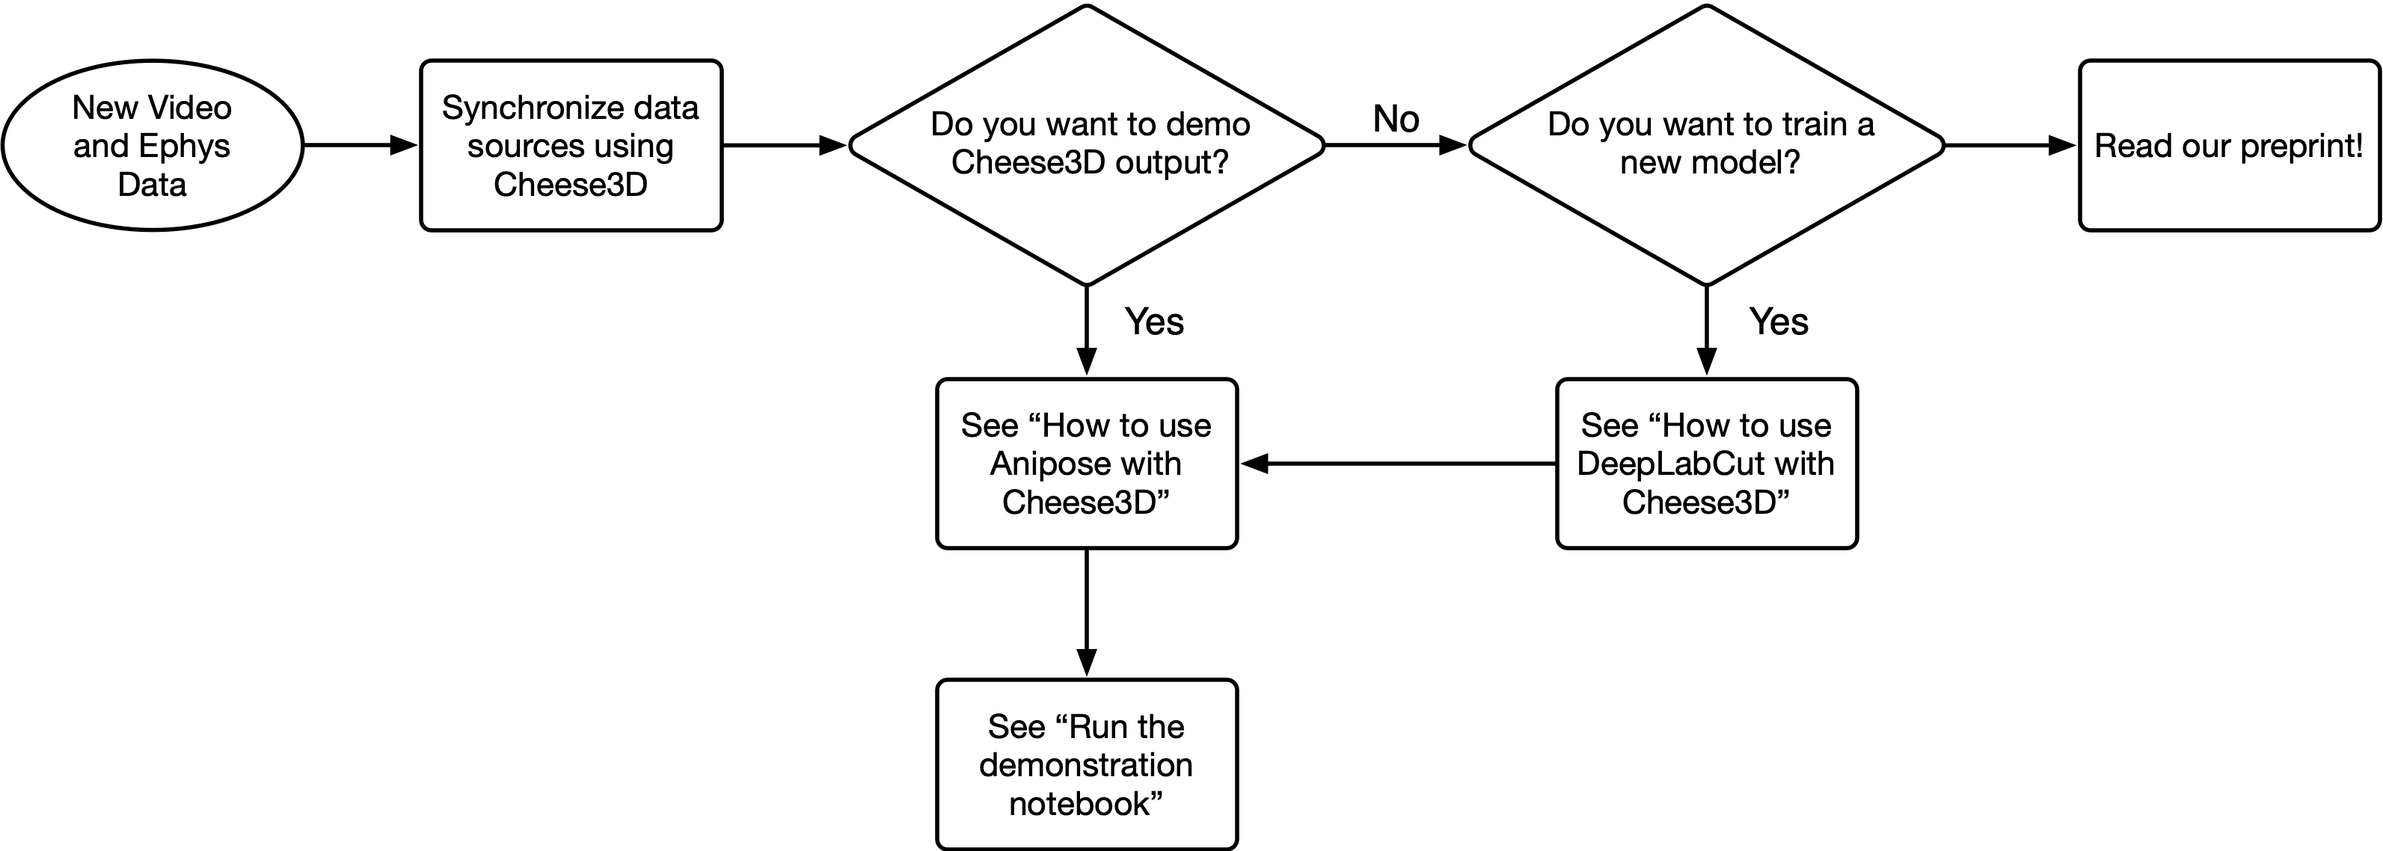
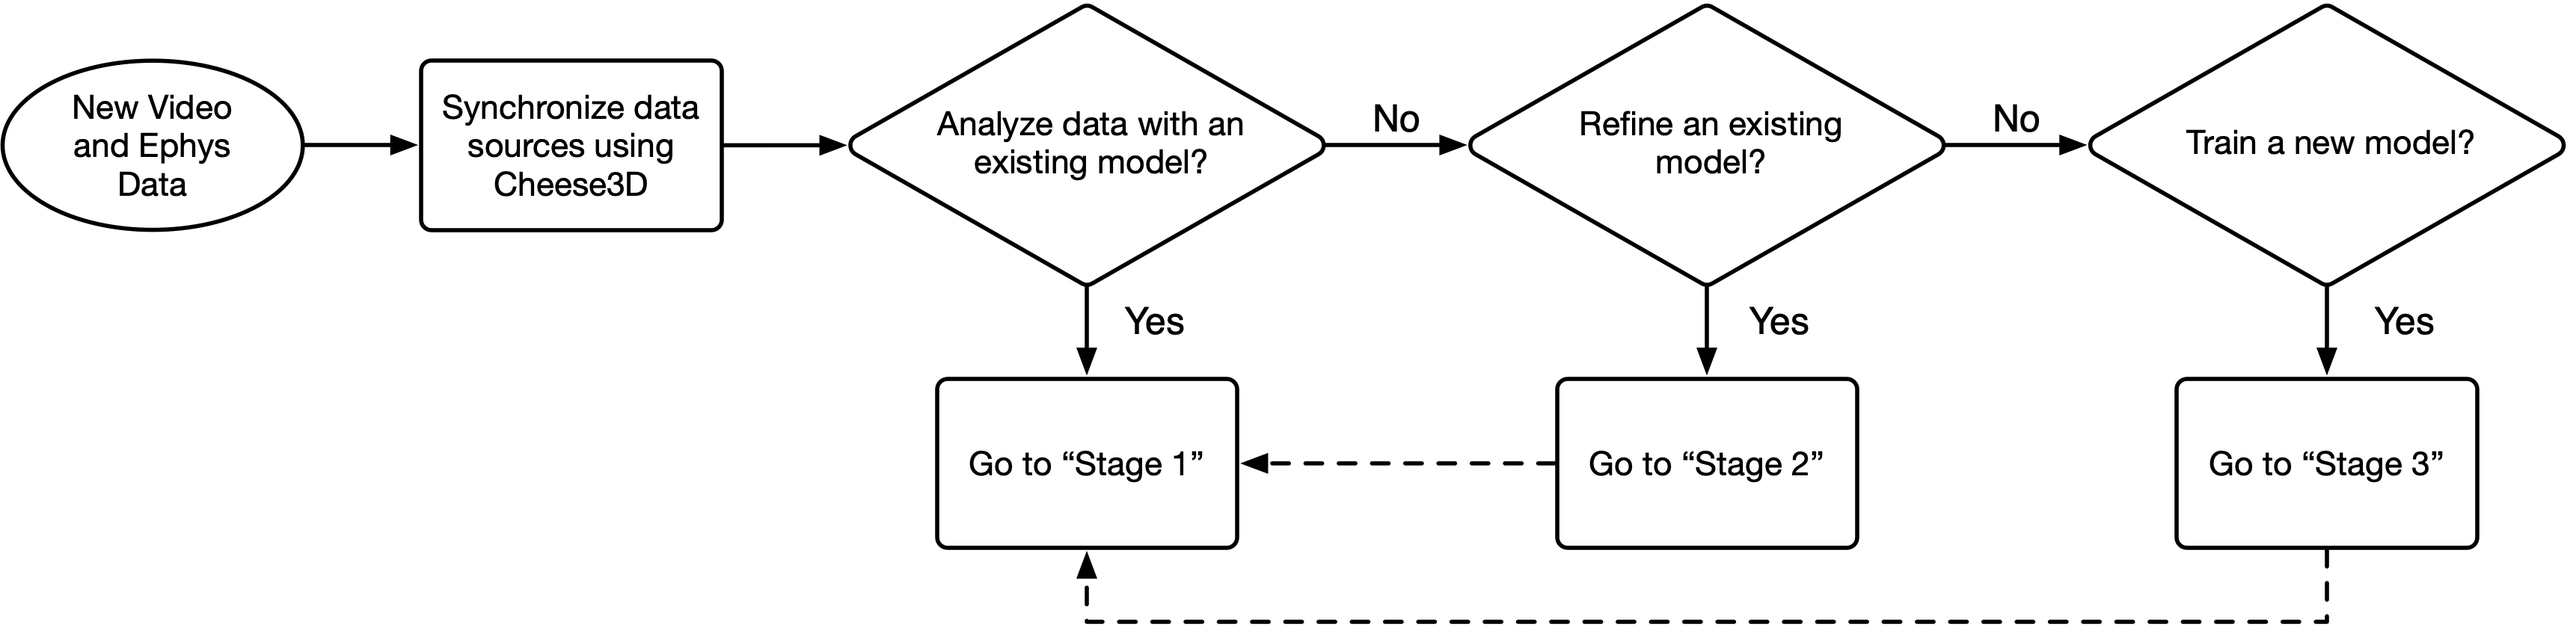
Update usage guide for DLC and Anipose

diff --git a/USAGE.md b/USAGE.md
@@ -1,0 +1,107 @@
+# Cheese3D Workflow Usage Guide
+
+This guide provides an overview of the Cheese3D workflow including analyzing new data and training new models. We provide example projects and datasets to walk through this tutorial.
+
+!!! note
+    Before starting, make sure you have installed Cheese3D as described in the [README](README.md).
+
+Download the example projects and datasets HERE. Unpack the downloaded archive using:
+```bash
+tar -xvzf cheese3d_examples.tar.gz
+```
+
+Use the flow chart below to guide you through the workflow.
+![](Cheese3DFlowchart.png)
+
+## Stage 1: Analyzing new videos
+
+Suppose you have new video data that you wish to analyze with Cheese3D. Start by placing the videos in `video-data` in their own subfolder. For this tutorial, we already provide a dataset called `20231031_B6-B20-B21-B26-B31-B32-B33_chew_rig2` as an example.
+
+Next, create an Anipose project configuration for your new data under `configs/anipose`. We provide `configs/anipose/example-anipose.yaml` as a reference. Let's go over the parts of this template that you should customize.
+
+First, the following keys specify the name of your Anipose project and a path to a DLC project to use for analysis:
+```yaml
+name: example-anipose
+dlc_model: ${paths.dlc.projects}/example-dlc-defaultuser-2023-12-14
+```
+These can be any name and path that you want (as long as it points to a valid DLC model). In this example, we use the name and model path for the projects provided by the example data that you previously downloaded.
+
+Next, you should add an entry for the new data that you want to analyze. For example, we can refer to the entry for the `20231031_B6-B20-B21-B26-B31-B32-B33_chew_rig2` dataset:
+```yaml
+sessions:
+- name: 20231031_B6-B20-B21-B26-B31-B32-B33_chew_rig2
+  mouse: B6
+  condition: bl
+  cal_run: "001"
+```
+The `name` key specifies the subfolder in `video-data` that you want to analyze. Since each subfolder in `video-data` may contain recordings for many mice, conditions, and runs, we specify the `mouse` and `condition` keys to choose a specific recording. We also specify the `cal_run` key to choose a specific calibration recording.
+
+!!! note
+    You do not need to create a new Anipose configuration for each dataset. You can add as many entries to the `sessions` list as you want, and you can update it even after you have started the analysis.
+
+Now that you have an Anipose configuration, you can create or update the Anipose project by running:
+```bash
+python run-anipose.py anipose=example-anipose setupproject=true
+```
+We specify the `anipose=` flag to indicate which configuration file should be used. This will create a new project with the name specified in the configuration file under `anipose-projects`. In our case, there is already an existing project provided in the examples download that has already been created and analyzed.
+
+From here, we can proceed with analysis:
+```bash
+python run-anipose.py anipose=example-anipose run_data=true
+```
+If data has already been analyzed, it will be skipped.
+
+## Stage 2: Training a new model
+
+Sometimes, we may not have an existing  model ready to use. In this case, we can train a new DeepLabCut (DLC) model through Cheese3D. Start by placing the videos used for training in `video-data` in their own subfolder. For this tutorial, we already provide a dataset called `20231031_B6-B20-B21-B26-B31-B32-B33_chew_rig2` as an example.
+
+Next, create a new DLC project configuration under `configs/dlc`. We provide `configs/dlc/example-dlc.yaml` as a reference. Let's go over the parts of this template that you should customize.
+
+The `name` key specifies the name of your project:
+```yaml
+name: example-dlc
+```
+In this case, we use the name of the example project provided in the examples download.
+
+The `sessions` list provides data from `video-data` to use for training the model:
+```yaml
+sessions:
+# chewing rig 2
+- name: 20231031_B6-B20-B21-B26-B31-B32-B33_chew_rig2
+  concat_videos: true
+```
+The `name` key specifies the subfolder in `video-data` to use. Typically, there are many recordings in the same subfolder. Just like in [the Anipose configuration example above](#stage-1-analyzing-new-videos), you can specify keys like `mouse`, `condition`, or `run` to narrow down which data to use. Alternatively, you can specify none of these keys to use all the data, and each unique recording will correspond to a separate video in the DLC project. In this case, we use the `concat_videos: true` option to merge all the recordings into a single video. DLC operates frame by frame, so it does not matter that these videos are discontinuous in time.
+
+Finally, notice at the top of the file that we have some defaults specified:
+```yaml
+defaults:
+- /labutils/dlcconfig@_here_
+- common
+- _self_
+```
+The first an last entry are required for Cheese3D to function; however, the middle entry imports a set of common configurations which you can find under `configs/dlc/common.yaml`. You can override any of these settings by specifying the same key in `configs/dlc/<your-project-name>.yaml`.
+
+Once we have a configuration, we can proceed with setting up the project, extracting frames to label, labeling frames, and training the model.
+
+!!! note
+    Since we already provided an example DLC project, running the following commands on the example project will modify the model.
+
+Run through the following steps:
+1. Create the project with `python run-dlc.py dlc=example-dlc setupproject=true`
+2. Extract frames to label with `python run-dlc.py dlc=example-dlc extractframes=true`
+3. Label frames with `python run-dlc.py dlc=example-dlc labelframes=true`
+4. Build the dataset with `python run-dlc.py dlc=example-dlc builddataset=true`
+5. Train the model with `python run-dlc.py dlc=example-dlc trainnetwork=true evaluatenetwork=true`
+
+Now you should have a trained DLC model!
+
+## Stage 3: Refining an existing model
+
+After running Anipose analysis, you may wish to refine the DLC model using your new or existing data.
+
+1. First, extract frames to label using DLC's active learning with `python run-dlc.py dlc=example-dlc extractframes=true` (Cheese3D will detect a trained model and use it to extract frames)
+2. Label frames with `python run-dlc.py dlc=example-dlc labelframes=true`
+3. Update the dataset with `python run-dlc.py dlc=example-dlc mergedataset=true`
+4. Retrain or refine the model:
+    1. Retrain the model with `python run-dlc.py dlc=example-dlc trainnetwork=true evaluatenetwork=true`
+    2. Refine the model with `python run-dlc.py dlc=example-dlc initweights=true` then `python run-dlc.py dlc=example-dlc trainnetwork=true evaluatenetwork=true`

diff --git a/README.md b/README.md
@@ -25,9 +25,9 @@ If you use Cheese3D, please cite our preprint:
 
 ## Quick start
 
-First, follow the [installation instructions](#installation-instructions), then use the flow chart below.
-
-![](Cheese3DFlowchart.png)
+First, follow the [installation instructions](#installation-instructions). Next, either
+- Refer to the [usage guide](USAGE.md)
+- Look at example of analysis with Cheese3D output from our preprint: [paper figure notebooks](https://github.com/Hou-Lab-CSHL/cheese3d/tree/main/paper/)
 
 ## Installation instructions
 
@@ -37,91 +37,3 @@ First, follow the [installation instructions](#installation-instructions), then 
 3. Change directories to the repository folder
    (`cd <path to repo>/cheese3d`)
 4. Activate the environment (`pixi shell`)
-
-## Run the demonstration notebook
-
-First, download the demo dataset from [here](https://www.dropbox.com/scl/fi/ppcmnx9ki5jhs5cfsm7bh/demo-data.tar.gz?rlkey=0x5vgnq9tbdbar2w26yptcwlv&e=1&st=drg5dh86&dl=0).
-Unpack the dataset:
-```
-tar -xvzf demo-data.tar.gz
-```
-Open the `demo.ipynb` notebook and run start to finish.
-
-## How to use DeepLabCut with Cheese3D
-
-Cheese3D is designed to integrate with the existing DeepLabCut framework.
-To train a DeepLabCut model on your own facial movement videos, follow [the single
-animal user guide](https://deeplabcut.github.io/DeepLabCut/docs/standardDeepLabCut_UserGuide.html#deeplabcut-user-guide-for-single-animal-projects) from DeepLabCut.
-
-When you reach [Step B "Configuring the Project"](https://deeplabcut.github.io/DeepLabCut/docs/standardDeepLabCut_UserGuide.html#b-configure-the-project), adjust your configuration file using the Cheese3D template below. Proceed with the rest of the guide.
-
-```yaml
-# note that unspecified parameters are free to be set by the user
-numframes2pick: 5
-bodyparts:
-- nose(bottom)
-- nose(tip)
-- nose(top)
-- pad(top)(left)
-- pad(side)(left)
-- pad(center)
-- pad(top)(right)
-- pad(side)(right)
-- lowerlip
-- upperlip(left)
-- upperlip(right)
-- eye(front)(left)
-- eye(top)(left)
-- eye(back)(left)
-- eye(bottom)(left)
-- eye(front)(right)
-- eye(top)(right)
-- eye(back)(right)
-- eye(bottom)(right)
-- ear(base)(left)
-- ear(top)(left)
-- ear(tip)(left)
-- ear(bottom)(left)
-- ear(base)(right)
-- ear(top)(right)
-- ear(tip)(right)
-- ear(bottom)(right)
-- ref(head-post)
-```
-
-## How to use Anipose with Cheese3D
-
-Given a trained DeepLabCut model (as configured [above](#how-to-use-deeplabcut-with-cheese3d)) and video data, Cheese3D is designed to integrate with Anipose to generate 3D keypoints over time. Start by following the [Anipose tutorial](https://anipose.readthedocs.io/en/latest/tutorial.html).
-
-To ensure that Anipose generates precise keypoints, [adjust the configuration parameters](https://anipose.readthedocs.io/en/latest/tutorial.html#understanding-configuration-parameters) using the template below.
-
-```toml
-[labeling]
-scheme = [ [ "nose(bottom)", "nose(tip)", "nose(top)", "nose(bottom)",], [ "pad(top)(left)", "pad(side)(left)", "pad(center)", "pad(top)(left)",], [ "pad(top)(right)", "pad(side)(right)", "pad(center)", "pad(top)(right)",], [ "lowerlip", "upperlip(left)", "upperlip(right)", "lowerlip",], [ "eye(front)(left)", "eye(top)(left)", "eye(back)(left)", "eye(bottom)(left)", "eye(front)(left)",], [ "eye(front)(right)", "eye(top)(right)", "eye(back)(right)", "eye(bottom)(right)", "eye(front)(right)",], [ "ear(base)(left)", "ear(top)(left)", "ear(tip)(left)", "ear(bottom)(left)", "ear(base)(left)",], [ "ear(base)(right)", "ear(top)(right)", "ear(tip)(right)", "ear(bottom)(right)", "ear(base)(right)",], [ "ref(head-post)",],]
-
-[filter]
-enabled = false
-type = "medfilt"
-medfilt = 13
-offset_threshold = 5
-score_threshold = 0.8
-spline = false
-
-[calibration]
-board_type = "charuco"
-board_size = [ 7, 7,]
-board_marker_bits = 4
-board_marker_dict_number = 50
-board_marker_length = 4.5
-board_square_side_length = 6
-
-[triangulation]
-triangulate = true
-cam_regex = "_([LRCTB]{1,2})(?=_|$)"
-manually_verify = false
-axes = [ [ "z", "nose(top)", "nose(bottom)",], [ "x", "eye(front)(left)", "eye(front)(right)",],]
-reference_point = "ref(head-post)"
-optim = true
-score_threshold = 0.9
-scale_smooth = 0.0
-```
